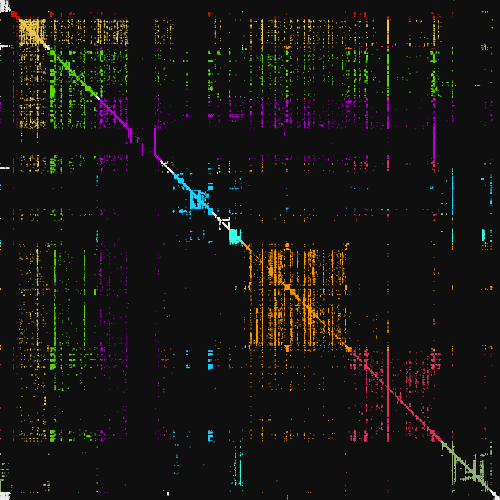
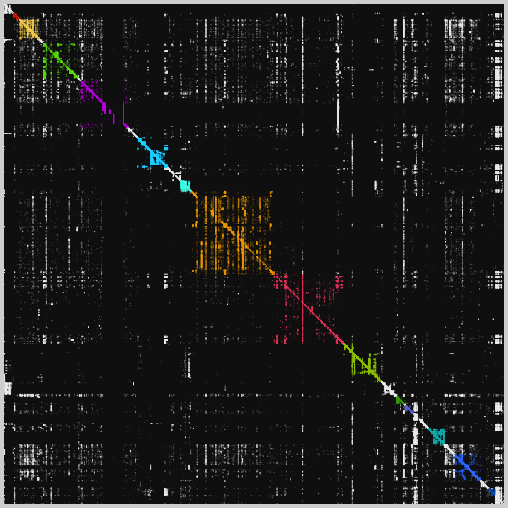
Finished proof-of-concept, using raster images with delay for matrices for now

diff --git a/index.html b/index.html
@@ -3,14 +3,14 @@
     
     <head>
         <meta http-equiv="Content-Type" content="text/html;charset=utf-8">
-        <meta property="og:title" content="Evolution of the Firefox codebase" />
+        <meta property="og:title" content="Evolution of the Firefox Codebase" />
         <meta property="og:description" content="This work presents a set of metrics for all releases of Firefox that are indicative of quality with the ability to view them through one of several views. By looking at changes in these metrics, one can see the evolution of the Firefox codebase over time. They can also be useful as a retrospective, investigative tool to help infer when, say, architectural issues may be the cause for unfavorable user sentiment following a release."
         />
         <meta property="og:image" content="http://almossawi.com/firefox/thumb.png" />
         <meta property="og:type" content="website" />
         <meta property="og:url" content="http://almossawi.com/fx-logo.png" />
-        <meta property="og:site_name" content="Evolution of the Firefox codebase" />
-        <title>Evolution of the Firefox codebase</title>
+        <meta property="og:site_name" content="Evolution of the Firefox Codebase" />
+        <title>Evolution of the Firefox Codebase</title>
         <link href='https://fonts.googleapis.com/css?family=Cardo' rel='stylesheet' type='text/css'>
         <link href='https://fonts.googleapis.com/css?family=Signika:400,300' rel='stylesheet' type='text/css'>
         <link href="https://fonts.googleapis.com/css?family=Open+Sans:400,300,600" rel="stylesheet" type="text/css" />
@@ -76,14 +76,16 @@
 					</div>-->
                     <div id="canvases">
                         <div id="loading_matrices">Generating matrices...</div>
-                        <canvas id="canvas1" width="500" height="500"></canvas>
-                        <canvas id="canvas2" width="500" height="500"></canvas>
+                        
+                        <img src="images/matrix_blank.png" id="canvas1" />
+						<img src="images/matrix_blank.png" id="canvas2" />
+						
+                        <!--<canvas id="canvas1" width="500" height="500"></canvas>
+                        <canvas id="canvas2" width="500" height="500"></canvas>-->
+                        
                         <div style="clear:both"></div>
-                        <div id="lhs_core_periph" class="core_periph">FILES: 29,072 &nbsp; DENSITY: 0.066%</div>
-                        <div id="rhs_core_periph" class="core_periph">FILES: 28,654 &nbsp; DENSITY: 0.024%</div>
-        
-                        <!--<div id="canvas1"><img src="images/matrix_v16_raster.png" /></div>
-						<div id="canvas2"><img src="images/matrix_v17_raster.png" /></div>-->
+                        <div id="lhs_core_periph" class="core_periph">FILES: 29,072 &nbsp; DENSITY: 0.0239%</div>
+                        <div id="rhs_core_periph" class="core_periph">FILES: 29,739 &nbsp; DENSITY: 0.0235%</div>
 
                         <a href="#" id="what_mean_matrix">
                             <img src="images/what_mean.png" />
@@ -100,10 +102,10 @@
                             <p>where A is a file along the left edge and B is a file along the top edge. A module's dependencies are colored distinctly. A square-shaped cluster indicates the density of dependencies within a module.</p>
                             <p>All the dots to the right and left of a cluster are files that the module depends on. All files above and below it are files that depend on it. In many paradigms, modularity (low coupling, high cohesion) is a desirable quality attribute. Hence, an ideal
                                 system has modules that have more intra-module dependencies and fewer inter-module dependencies.</p>
-                            <p>A matrix can show different types of files, which have varying impacts on quality. Although we calculate the values for these four types of files using the visibility matrix, it is still useful to look for them in a first-order matrix. <strong>Shared files</strong>,
+                            <p>A matrix can show different types of files, which have varying impacts on quality. Although we calculate the values for these four types of files using the visibility matrix, it is still useful to look for them in a first-order matrix. <span style="font-weight:600">Shared files</span>,
                                 also known as utility files, are ones that a lot of other files depend on; a shared file that every other file in a codebase depends on would appear as a solid vertical line in a square matrix. Shared files appear to be a positive predictor of quality.</p>
-                            <p><strong>Control files</strong>, conversely, depend on a high number of files. Such files appear to be a negative predictor of quality and are hence undesirable in high numbers. They may appear as horizontal lines in a square-matrix.</p>
-                            <p>Two other types of files are <strong>core files</strong>, which depend on a lot of files and have a lot of files depend on them, and <strong>periphery files</strong>, which don't depend on a lot of files and don't have a lot of files depend on them. These
+                            <p><span style="font-weight:600">Control files</span>, conversely, depend on a high number of files. Such files appear to be a negative predictor of quality and are hence undesirable in high numbers. They may appear as horizontal lines in a square-matrix.</p>
+                            <p>Two other types of files are <span style="font-weight:600">core files</span>, which depend on a lot of files and have a lot of files depend on them, and <span style="font-weight:600">periphery files</span>, which don't depend on a lot of files and don't have a lot of files depend on them. These
                                 may be a bit more difficult to spot in a matrix. The collective size of clusters can give a partial sense of the number of core files in a codebase. Core files seem to be a negative predictor of quality whereas periphery files seem to be a positive predictor
                                 of quality.</p>
                         </div>
@@ -131,7 +133,7 @@
                 <div style="margin-top:40px;text-align:left">
                     <p><span style="font-weight:600;font-style:italic">Evolution of the Firefox Codebase</span> presents a set of metrics for all releases of Firefox that are indicative of quality with the ability to view them through one of several views. By looking at changes in these metrics, one can see the evolution of the Firefox codebase over
                         time. They can also be useful as a retrospective, investigative tool to help infer when, say, architectural issues may be the cause for unfavorable user sentiment following a release.</p>
-                    <p>Metrics such as lines-of-code (LOC) and cyclomatic complexity are widely used in industry, whereas other ones like propagation cost are based on some of the more recent research to come out of academia. For the module breakdown view, <i>Chart</i>, only
+                    <p>Metrics such as lines-of-code (LOC) and cyclomatic complexity are widely used in industry, whereas others like propagation cost are based on some of the more recent research to come out of academia. For the module breakdown view, <i>Chart</i>, only
                         modules that have a reasonable level of complexity, i.e. several hundred files, are shown. Select an option from the top to change the view. Descriptions of what each metric captures and how it is calculated are shown below, as are some additional measures
                         of quality, such as speed and resident memory usage, both of which have improved in Firefox.</p>
                     <br />
@@ -178,8 +180,9 @@
                             <p style='padding:0;margin:0;font-size:80%'><sup>2</sup> Steven D. Eppinger and Tyson R. Browning, Design Structure Matrix Methods and Applications (2012).</p>
                             <p style='padding:0;margin-top:0;font-size:80%'><sup>3</sup> Alan MacCormack, John Rusnak and Carliss Baldwin, <i>Exploring the Structure of Complex Software Designs: An Empirical Study of Open Source and Proprietary Code</i> (2006).</p>
                     </div>
-                    <div class="chart_container" id="allversions_prop_cost">	<span class="container_title">Propagation cost</span>
-                    
+                    <div class="chart_container" id="allversions_prop_cost">
+                    	<span class="container_title">Propagation cost</span>
+                    	<div></div>
                     </div>
                     <div class="chart_description">
                         <h1>Core size</h1>
@@ -190,8 +193,8 @@
                             low fan-out) and control files, which depend on a lot of files, but don’t have a lot of files depend on them (low fan-in, high fan-out).</p>
                         <p>Core size, here, is the percentage of files with one or more dependencies that have a fan-in above the fan-in median and a fan-out above the fan-out median.</p>
                     </div>
-                    <div class="chart_container" id="allversions_percent_in_core">	<span class="container_title">Core size</span>
-
+                    <div class="chart_container" id="allversions_percent_in_core">
+                    	<span class="container_title">Core size</span>
                         <div></div>
                     </div>
                     <div style="clear:both"></div>
@@ -202,8 +205,8 @@
                             field, the defect counts currently don't include confirmed bugs that have not been assigned to particular releases. We have a relatively robust method for including unassigned defects that we may end up using in the future. We start from version 5.0 since
                             that is when the rapid release cycle began.</p>
                     </div>
-                    <div class="chart_container" id="allversions_defects_per_hundred_thousand_loc_code">	<span class="container_title">Defect density</span>
-
+                    <div class="chart_container" id="allversions_defects_per_hundred_thousand_loc_code">
+                    	<span class="container_title">Defect density</span>
                         <div></div>
                     </div>
                     <div style="clear:both"></div>
@@ -216,8 +219,8 @@
                             weeks between that codebase and the codebase of the final release, hence it is important to keep this caveat in mind when interpreting the data.</p>
                         <p>This data is provided by our colleagues at areweslimyet.com. See their <a href="https://areweslimyet.com/faq.htm">FAQ</a> for more info.</p>
                     </div>
-                    <div class="chart_container" id="allversions_mem">	<span class="container_title">Resident memory</span>
-
+                    <div class="chart_container" id="allversions_mem">
+                    	<span class="container_title">Resident memory</span>
                         <div></div>
                     </div>
                     <div class="chart_description">
@@ -227,8 +230,8 @@
                             is a gap of a number of weeks between that codebase and the codebase of the final release, hence it is important to keep this caveat in mind when interpreting the data.</p>
                         <p>The data is provided by our colleagues at arewefastyet.com.</p>
                     </div>
-                    <div class="chart_container" id="allversions_speed">	<span class="container_title">Speed</span>
-
+                    <div class="chart_container" id="allversions_speed">
+                    	<span class="container_title">Speed</span>
                         <div></div>
                     </div>
                 </div>
@@ -237,7 +240,7 @@
                 <div id="wide_pane">
                     <div id="logo_container">
                         <div id="twitter_block">
-<a href="https://twitter.com/share" data-size="large" class="twitter-share-button">Tweet</a>
+<a href="https://twitter.com/share" data-size="large" class="twitter-share-button" data-via="alialmossawi">Tweet</a>
 
                             <script>
                                 ! function (d, s, id) {
@@ -252,7 +255,8 @@
                             </script>
                         </div>
                         <div id="fb_block" class="fb-like" data-href="http://almossawi.com/firefox" data-send="false" data-layout="box_count" data-width="150" data-show-faces="false" data-font="arial"></div>
-                        <div id="credits_block">	<a href="http://almossawi.com">ALI ALMOSSAWI</a> &middot; ali@mozilla.com &middot; This is a work-in-progress; please contact me for all thoughts and comments &middot;
+                        <div id="credits_block">
+                        	<a href="http://almossawi.com" style="border-bottom:0">ALI ALMOSSAWI</a> &middot; ali@mozilla.com &middot; This is an early preview of a work-in-progress; please contact me for all thoughts and comments &middot;
                             <!--<a href="https://twitter.com/alialmossawi">Follow me on Twitter</a> &middot;-->April 2013
                             <br />Background image courtesy of <a href="https://twitter.com/tyronflanagan">Ty Flanagan</a>. This work is being released under a Creative Commons Attribution-NonCommercial license (<a href="http://creativecommons.org/licenses/by-nc/3.0/">CC BY-NC</a>).</div>
                     </div>
@@ -265,6 +269,8 @@
                     'images/lhs_right.png',
                     'images/rhs_left.png',
                     'images/rhs_right.png',
+                    'images/bg-sand.png',
+                    'images/matrix_blank.png'
             ];
 
             $(images).each(function () {

diff --git a/js/global.js b/js/global.js
@@ -4,8 +4,8 @@ var point_size = 0.8,
 	alpha = 0.2,
 	max_version = 17,
 	pause = false,
-	matrix_load_delay = 0,
-	use_raster_for_matrix = false;
+	matrix_load_delay = 1000,
+	use_raster_for_matrix = true;
 	
 var data_v16,
 	data_v17;
@@ -37,16 +37,16 @@ var matrix_v16_modules = new Object();
 	matrix_v16_modules["browser"] = [1094,2507, [20,20,22,19]];
 	matrix_v16_modules["content"] = [2721,5361, [37,35,46,42]];
 	matrix_v16_modules["dom"] = [5544,8825, [47,45,84,80]];
-	matrix_v16_modules["gfx"] = [9520,11713, [54,55,139,135]];
+	matrix_v16_modules["gfx"] = [9520,11713, [30,30,139,135]];
 	matrix_v16_modules["ipc"] = [12665,13479, [11,10,180,178]];
 	matrix_v16_modules["js"] = [13480,19593, [81,85,193,188]];
 	matrix_v16_modules["layout"] = [19594,24684, [70,71,276,273]];
-	matrix_v16_modules["media"] = [24695,27484, [0,0,0,0]];
-	matrix_v16_modules["modules"] = [28591,29187, [0,0,0,0]];
-	matrix_v16_modules["netwerk"] = [29212,29860, [0,0,0,0]];
-	matrix_v16_modules["security"] = [30926,32117, [0,0,0,0]];
-	matrix_v16_modules["toolkit"] = [32842,34754, [0,0,0,0]];
-	matrix_v16_modules["widget"] = [35372,35845, [0,0,0,0]];
+	matrix_v16_modules["media"] = [24695,27484, [38,38,346,343]];
+	matrix_v16_modules["modules"] = [28591,29187, [8,8,399,395]];
+	matrix_v16_modules["netwerk"] = [29212,29860, [10,10,408,404]];
+	matrix_v16_modules["security"] = [30926,32117, [17,17,431,428]];
+	matrix_v16_modules["toolkit"] = [32842,34754, [25,26,458,454]];
+	matrix_v16_modules["widget"] = [35372,35845, [7,7,493,488]];
 	
 var matrix_v17_modules = new Object();
 	matrix_v17_modules["-"] = [0,667, [0,0,0,0]];
@@ -54,16 +54,16 @@ var matrix_v17_modules = new Object();
 	matrix_v17_modules["browser"] = [1128,2592, [20,20,22,19]];
 	matrix_v17_modules["content"] = [2818,5516, [36,35,47,43]];
 	matrix_v17_modules["dom"] = [5704,9188, [47,46,84,80]];
-	matrix_v17_modules["gfx"] = [9891,12162, [54,54,142,138]];
+	matrix_v17_modules["gfx"] = [9891,12162, [31,30,142,138]];
 	matrix_v17_modules["ipc"] = [13115,13936, [11,11,184,180]];
 	matrix_v17_modules["js"] = [13937,20057, [83,85,197,190]];
 	matrix_v17_modules["layout"] = [20058,25209, [73,70,277,273]];
-	matrix_v17_modules["media"] = [25210,28056, [0,0,0,0]];
-	matrix_v17_modules["modules"] = [29181,29776, [0,0,0,0]];
-	matrix_v17_modules["netwerk"] = [29802,30451, [0,0,0,0]];
-	matrix_v17_modules["security"] = [31525,32720, [0,0,0,0]];
-	matrix_v17_modules["toolkit"] = [33457,35414, [0,0,0,0]];
-	matrix_v17_modules["widget"] = [36031,36511, [0,0,0,0]];
+	matrix_v17_modules["media"] = [25210,28056, [37,38,348,343]];
+	matrix_v17_modules["modules"] = [29181,29776, [8,8,401,396]];
+	matrix_v17_modules["netwerk"] = [29802,30451, [9,9,409,405]];
+	matrix_v17_modules["security"] = [31525,32720, [17,15,433,429]];
+	matrix_v17_modules["toolkit"] = [33457,35414, [25,26,461,454]];
+	matrix_v17_modules["widget"] = [36031,36511, [7,7,493,488]];
 		
 var chart_data_already_loaded = false,
 	matrix_data_already_loaded = false,
@@ -141,7 +141,10 @@ function assignEventListeners() {
 		setTimeout(function() {
 			//png
 			if(use_raster_for_matrix) {
-				$("#loading_matrices").hide();
+				$("#canvas1").attr("src", "images/matrix_v16_raster.png");
+				$("#canvas2").attr("src", "images/matrix_v17_raster.png");
+				
+				$("#loading_matrices").delay(400).fadeOut();
 				matrix_data_already_loaded = true;
 			}
 			//canvas

diff --git a/css/styles.css b/css/styles.css
@@ -349,24 +349,6 @@ svg rect.module_bar_transparent {
 	width:440px;
 }
 
-@-moz-document url-prefix() { 
-	#main_options a div div.selected_view,
-	#main_options a div div.unselected_view {
-		margin-top:9px;
-		width:450px;
-		display:none;
-	}
-	
-	#main_options a#switch_to_matrix div div.selected_view {
-		margin-left:20px;
-		width:429px;
-	}
-	
-	svg.right {
-		margin-left:1px;
-	}
-}
-
 #wide_pane {
 	position:absolute;
 	background-color:#fff;
@@ -812,4 +794,30 @@ label {
 
 #rhs_core_periph {
 	margin-left:635px;
+}
+
+@-moz-document url-prefix() { 
+	#main_options a div div.selected_view,
+	#main_options a div div.unselected_view {
+		margin-top:9px;
+		width:450px;
+		display:none;
+	}
+	
+	#main_options a#switch_to_matrix div div.selected_view {
+		margin-left:20px;
+		width:429px;
+	}
+	
+	svg.right {
+		margin-left:0.5px;
+	}
+	
+	#page #container {
+		height:2550px;
+	}
+	
+	#page {
+		height:3525px;
+	}
 }
